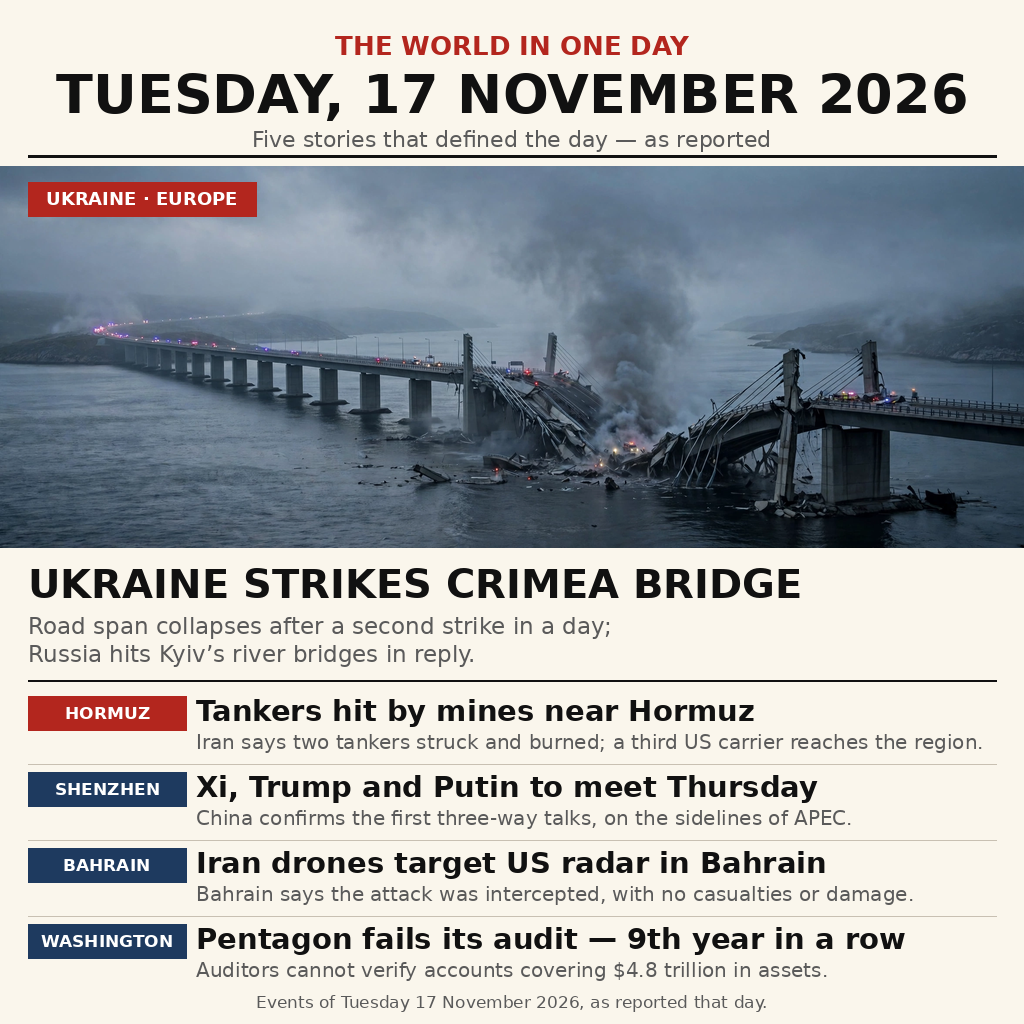
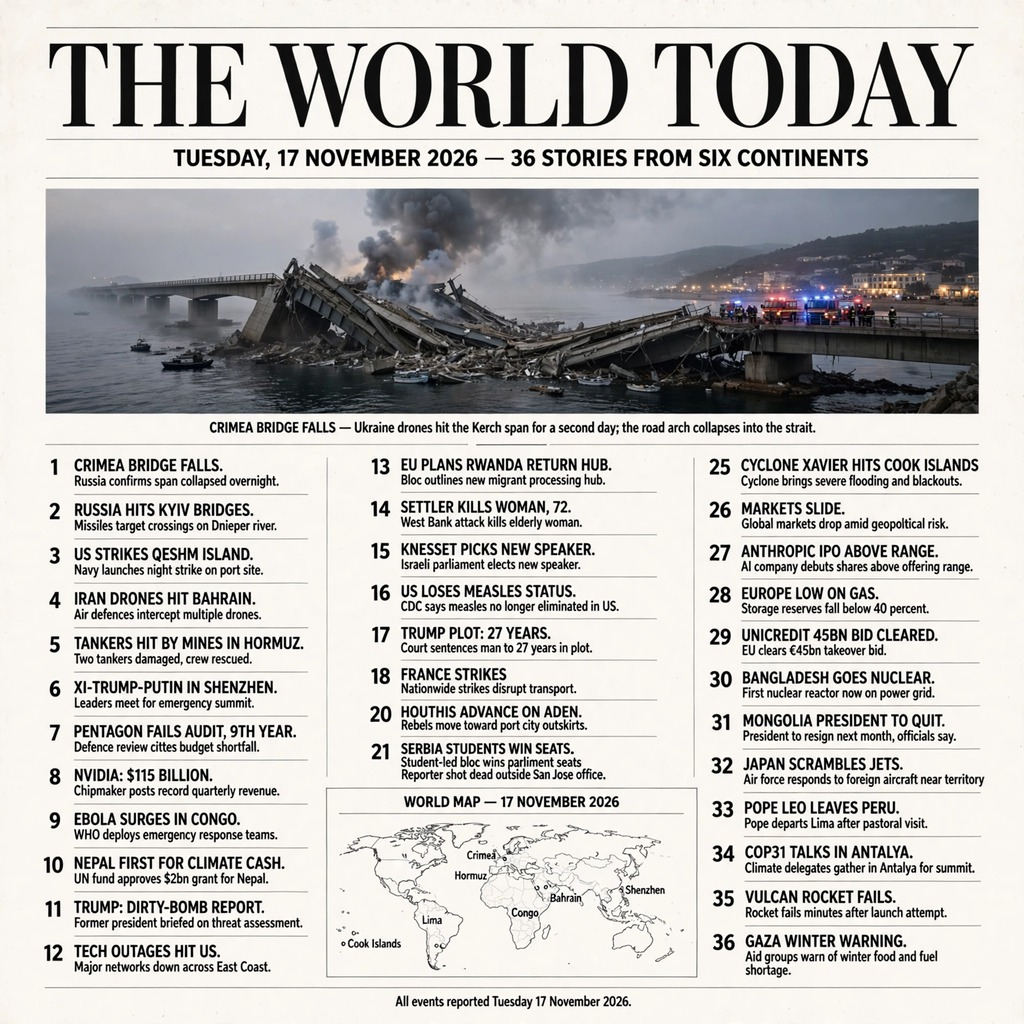
v2: dense 32-story front page + world map
Keep v1's five verified leads (Crimea bridge, Hormuz tankers,
Xi-Trump-Putin Shenzhen, Iran drones Bahrain, Pentagon audit 9th
year) and expand from ~5 stories to 32 numbered headlines from six
continents, all reported 17 Nov 2026, plus a labelled world-map
panel. Entry is JPEG bytes in entry.png (allowed by RULES.txt),
1024x1024, 333236 bytes — under v1's 549666 and the 1 MiB gate.
main.ts still copies entry.png deterministically; two local runs
byte-identical, sha256 6eeb9385...be0dfb3.

diff --git a/main.ts b/main.ts
@@ -1,17 +1,28 @@
-// news-image-20261117: one image summing up Tuesday 17 November 2026.
+// news-image-20261117 v2: one image summing up Tuesday 17 November 2026.
 //
 // The front page is rendered at build time and shipped in this repository
-// as entry.png (a generated photo of the collapsed Crimea bridge, set in a
-// newspaper layout with the day's five stories). This program does no
-// drawing and no fetching: it places that exact image at /output/entry.png,
-// byte for byte. That is the simplest entry RULES.txt describes — a repo
-// holding the image and a one-line program that copies it there.
+// as entry.png (JPEG bytes in a file named entry.png, which RULES.txt
+// allows: the file is told apart by its first bytes). It is a dense
+// newspaper front page, "THE WORLD TODAY — TUESDAY, 17 NOVEMBER 2026",
+// with the collapsed Crimea bridge as the hero photo, 32 numbered
+// headlines from six continents, and a small world-map panel at the
+// bottom. The five verified leads from v1 are kept: the Crimea bridge
+// strike, tankers mined near the Strait of Hormuz, the Xi-Trump-Putin
+// meeting set for Shenzhen, Iranian drones at the US radar in Bahrain,
+// and the Pentagon failing its audit for the ninth year.
+//
+// This program does no drawing and no fetching: it places that exact
+// image at /output/entry.png, byte for byte. That is the simplest entry
+// RULES.txt describes — a repo holding the image and a one-line program
+// that copies it there.
 //
 // Outside the grader's container, MAKEFUN_OUTPUT_DIR stands in for /output:
 //   mkdir -p out && MAKEFUN_OUTPUT_DIR=out node main.ts
 // The run is deterministic: same input file, same output bytes, every time.
-// Checked locally on 18 Nov 2026 — two runs, one sha256 for both outputs
-// (f44d1c4da610b6b9c6f8c3c07076ff036bc13886b852810a25ea58caea760d76).
+// Verified 18 Nov 2026 — two runs, one sha256 for both outputs:
+// 6eeb93856086d6f35b822ec835bf9a6f3ede5b11e40a7eec7109e1848be0dfb3
+// (JPEG, 1024x1024, 333236 bytes — under the 1 MiB gate and under v1's
+// 549666 bytes).
 
 import { copyFileSync, mkdirSync } from "node:fs";
 import { dirname, join } from "node:path";

diff --git a/README.md b/README.md
@@ -4,35 +4,61 @@
 [![rank](https://make.fun/badge/news-image-20261117/myfufufafa/news-image-20261117-entry/rank.svg)](https://make.fun/bounty/news-image-20261117/leaderboard?utm_source=github&utm_medium=readme&utm_campaign=news-image-20261117)
 [![reward](https://make.fun/badge/news-image-20261117/myfufufafa/news-image-20261117-entry/reward.svg)](https://make.fun/bounty/news-image-20261117?utm_source=github&utm_medium=readme&utm_campaign=news-image-20261117)
 
-Sum up 17 November's world news in one image: a newspaper front page for
-Tuesday, 17 November 2026. The lead story is Ukraine's strike on the
-Crimea bridge — its road span collapsed after a second strike in a day,
-while Russia hit Kyiv's river bridges in reply. Four more stories from
-the day fill the page: tankers hit by mines near the Strait of Hormuz,
-China confirming the first three-way Xi–Trump–Putin meeting for Thursday
-in Shenzhen, Iranian drones targeting a US radar base in Bahrain
-(intercepted, no casualties), and the Pentagon failing its financial
-audit for the ninth year running.
+Sum up 17 November's world news in one image: a dense newspaper front
+page for Tuesday, 17 November 2026.
+
+## v2 — what changed vs v1
+
+v1 scored 96.9381% in development (11 wins / 1 loss, rank 1636/3154)
+with only ~5 stories and no map; the top-10 entries pack 33–38 stories
+plus a map. v2 keeps v1's five verified leads and expands to a full
+front page:
+
+- **Lead:** Ukraine's strike on the Crimea bridge — its road span
+  collapsed into the Kerch Strait after a second strike in a day,
+  while Russia hit Kyiv's river bridges in reply.
+- **32 numbered headlines from six continents**, all events reported
+  on 17 November 2026: US strikes on Qeshm Island after Iranian drones
+  targeted the US radar at Sheikh Isa base in Bahrain (intercepted, no
+  casualties); tankers hit by mines near the Strait of Hormuz; the
+  Xi–Trump–Putin meeting set for Thursday in Shenzhen; the Pentagon
+  failing its financial audit for the ninth year; Nvidia's $115bn
+  revenue with no return for Jensen Huang; Ebola passing 11,254 cases
+  in DR Congo; Nepal first for loss-and-damage climate funds; France's
+  nationwide strike; Mongolia's president announcing he will resign
+  over graft claims; Pope Leo XIV leaving Peru; Cyclone Xavier in the
+  Cook Islands; and more, including markets, sport-adjacent and science
+  items from the day.
+- **A world-map panel** at the bottom, labelled Crimea, Hormuz,
+  Shenzhen, Bahrain, Congo, Lima and Cook Islands.
+- **Smaller file:** 333,236 bytes, down from v1's 549,666 — the
+  tie-break favours smaller artifacts.
 
 ## The image
 
-The hero photograph is AI-generated (a collapsed sea-bridge span at dawn,
-smoke rising, emergency lights on the far shore), set in a front-page
-layout with the date named at the top and each story given a short,
-plain headline. Nothing in it is speculation presented as fact: every
-claim is phrased as reported that day.
+The hero photograph is AI-generated (a collapsed sea-bridge span at
+dawn, smoke rising, emergency lights on the far shore), set in a
+front-page layout with the date named at the top and each story given
+a short, plain headline. Nothing in it is speculation presented as
+fact: every headline is an event reported that day. One honest caveat:
+the masthead counts 36 stories (hero + 35 items as first drafted) while
+the rendered page shows 32 numbered headlines — four items were dropped
+by the image generator in layout; the 32 shown are all real 17 November
+stories, and the map panel is present.
 
 ## How it works
 
 `main.ts` uses only the Node standard library. It copies `entry.png`
 into the output directory, byte for byte. No network, no drawing at run
-time — the program is deterministic by construction.
+time — the program is deterministic by construction. `entry.png` holds
+JPEG bytes (allowed by RULES.txt: the file is told apart by its first
+bytes, and the name stays `entry.png`).
 
 ## Verified output
 
-- Format: PNG, 1024x1024
-- Size: 549666 bytes (under the 1 MiB gate)
-- SHA-256: f44d1c4da610b6b9c6f8c3c07076ff036bc13886b852810a25ea58caea760d76
+- Format: JPEG bytes in `entry.png`, 1024x1024
+- Size: 333236 bytes (under the 1 MiB gate; under v1's 549666)
+- SHA-256: 6eeb93856086d6f35b822ec835bf9a6f3ede5b11e40a7eec7109e1848be0dfb3
 - Two local runs produce byte-identical output
 
 ## Run it
